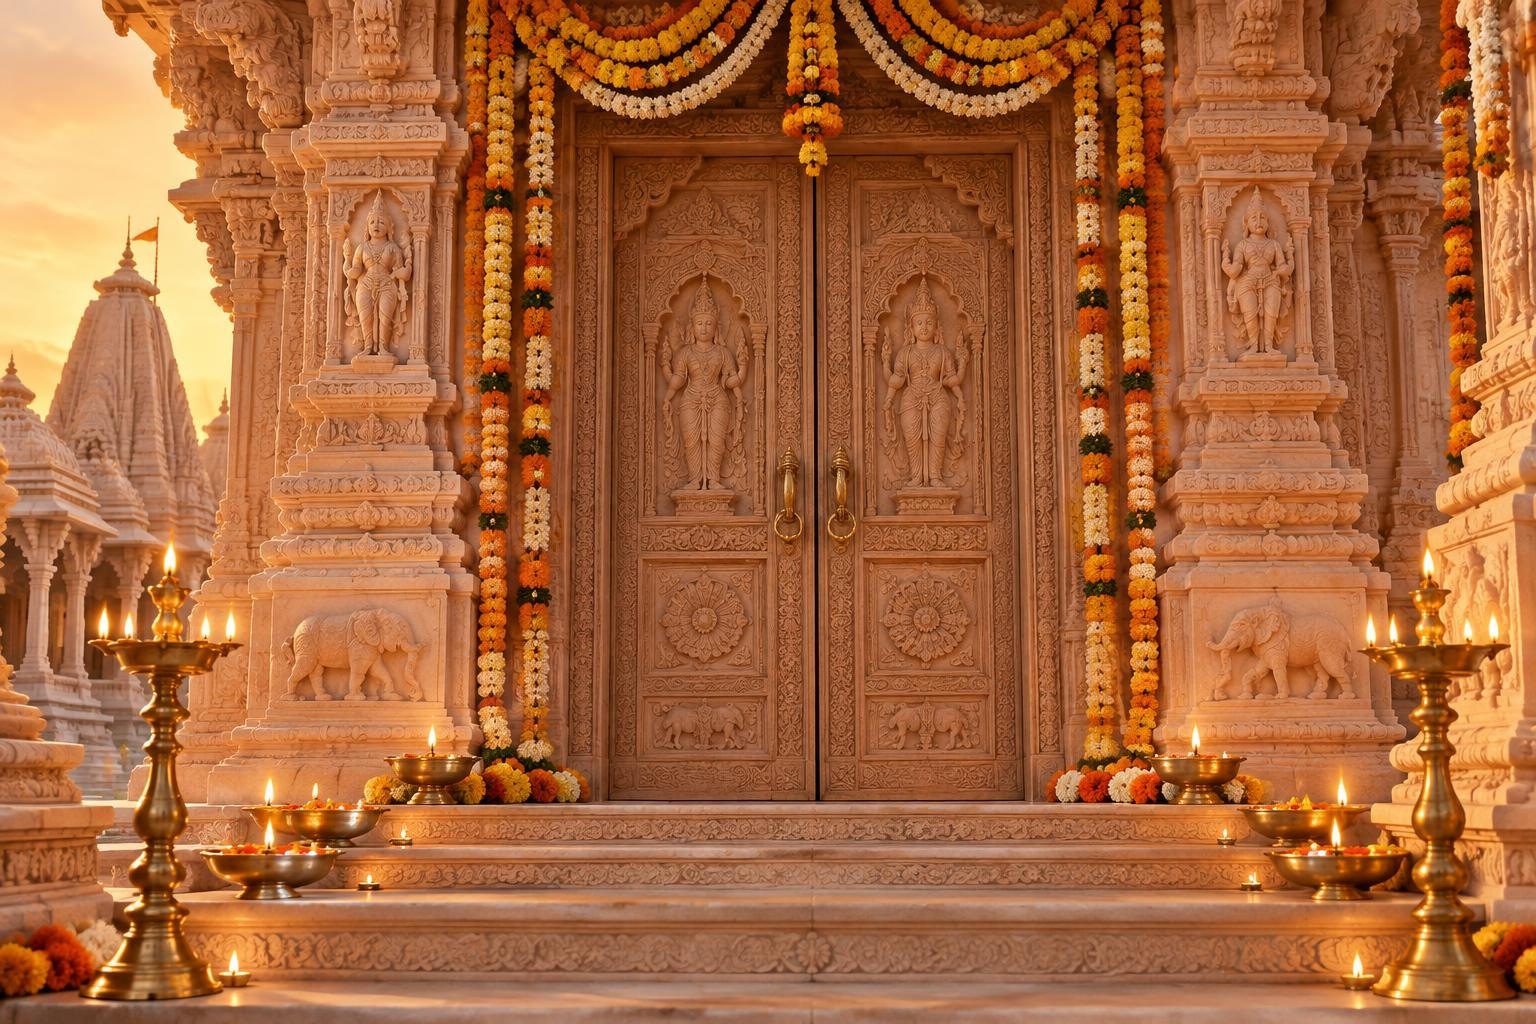
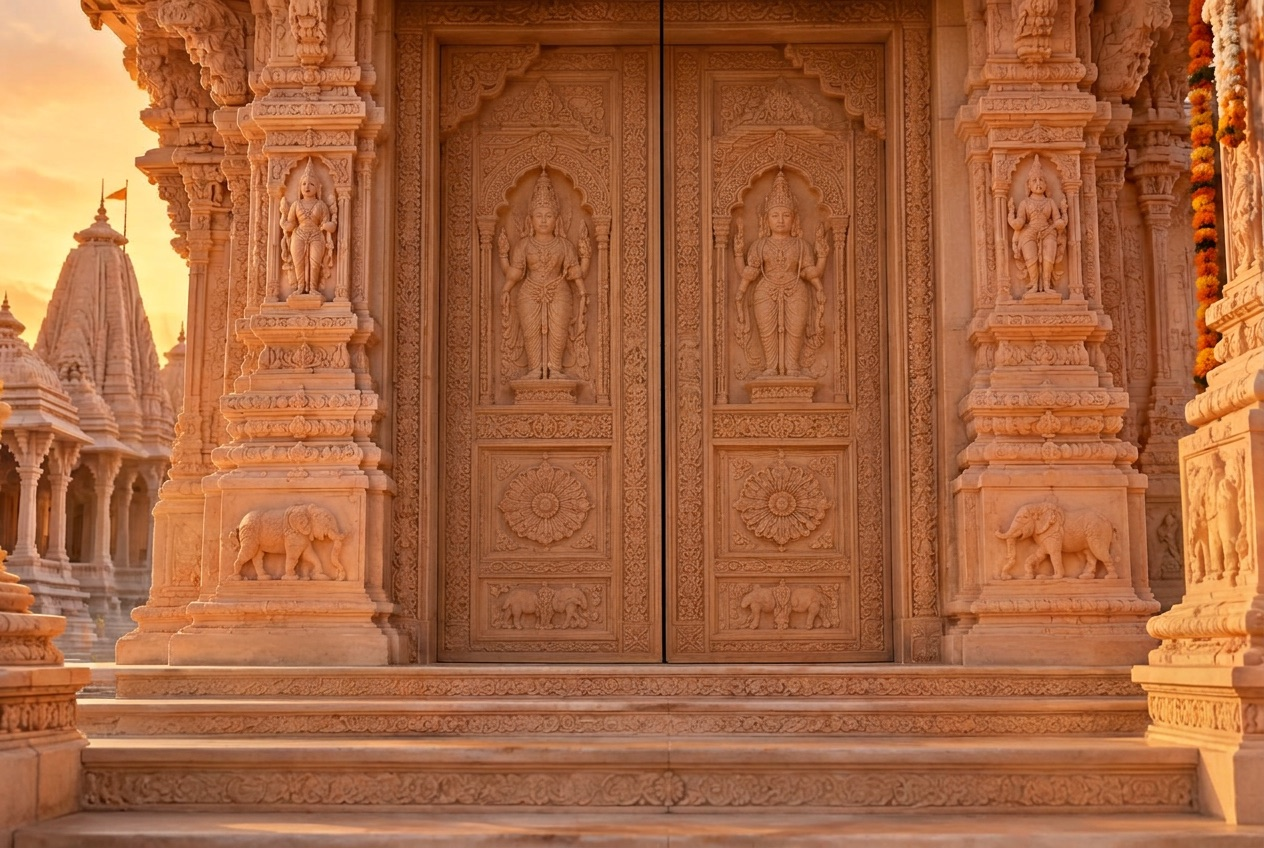
Fix Ram Mandir doors swinging the wrong way: rotation signs were reversed
Owner report (repeated across two prior fixes): the doors "opened from
the wrong side." Had Lovable independently rebuild and self-verify the
whole mechanic from scratch, with an explicit geometry check before
showing any result. Its analysis found the actual bug: for a CSS
rotateY, a point's z-offset relative to its hinge is -sin(angle) * x.
The left door's free (inner) edge sits at positive x relative to its
left-edge hinge, so it needs a POSITIVE rotation to swing away
(negative z) — but this code had it at -108deg. The right door's inner
edge sits at negative x relative to its right-edge hinge and needs a
NEGATIVE rotation for the same away motion — but this code had it at
+108deg. Both signs were backwards the entire time; no amount of
asset, color, or timing tweaking (the previous two fixes) could have
touched this, since the panels were always rotating toward each other
instead of away.

Also lowered the rotation magnitude from 108deg to 86deg (stopping
short of 90deg) per Lovable's fix, so backface-visibility: hidden
never abruptly erases a leaf before its own opacity transition
finishes — the remaining sliver now fades out instead of popping away.

New door artwork (Lovable-generated, sealed.jpg) swapped in alongside
the fix: cleaner composition, exact centre seam, no door handle
sitting across the split.

Verified via getComputedStyle sampling (left and right leaves' matrix3d
now carry opposite-signed z-rotation terms, confirming they swing in
[…]

diff --git a/src/styles.css b/src/styles.css
@@ -1250,18 +1250,28 @@ a {
  * narrow centre gap exposed between the two doors, that overlay's dark
  * top-to-bottom gradient read as a solid dark bar rather than a soft
  * shadow, making the opening look broken. */
+/* The rotation signs below were backwards for two prior revisions —
+ * both leaves swung the wrong way — confirmed by Lovable's own geometry
+ * check (2026-10-26): for a CSS rotateY, a point's z-offset relative to
+ * its hinge is -sin(angle) * x. The LEFT leaf's free (inner) edge sits
+ * at positive x relative to its left-edge hinge, so it needs a POSITIVE
+ * angle to move away (negative z); the RIGHT leaf's free edge sits at
+ * negative x relative to its right-edge hinge, so it needs a NEGATIVE
+ * angle for the same away motion. 86deg, not 108deg, so backface
+ * culling never abruptly hides a leaf before its own opacity fade
+ * finishes — the remaining sliver fades out instead of popping away. */
 .rmd-cover.is-opening .rmd-door-left {
   transition:
     transform 4s cubic-bezier(0.42, 0, 0.58, 1) 1.4s,
     opacity 1s cubic-bezier(0.42, 0, 0.58, 1) 4.4s;
-  transform: rotateY(-108deg);
+  transform: rotateY(86deg);
   opacity: 0;
 }
 .rmd-cover.is-opening .rmd-door-right {
   transition:
     transform 4s cubic-bezier(0.42, 0, 0.58, 1) 1.4s,
     opacity 1s cubic-bezier(0.42, 0, 0.58, 1) 4.4s;
-  transform: rotateY(108deg);
+  transform: rotateY(-86deg);
   opacity: 0;
 }
 @keyframes rmd-glow-pulse {
